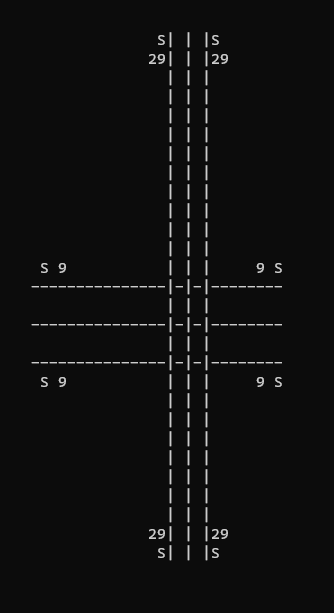
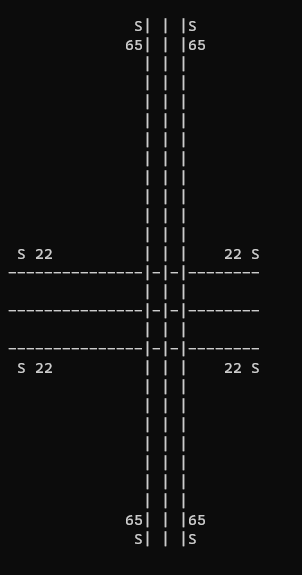
Enable passing GUI to map print to display correct speed limits

diff --git a/HW/SUI.cs b/HW/SUI.cs
@@ -24,7 +24,7 @@ namespace HW_2021_OOP
     {
         void PrintRoad(Road road, Object o);
         void PrintCar(Car car, Object o);
-        void PrintRoadItem(RoadItem roadItem, Object o);
+        void PrintRoadItem(RoadItem roadItem, Object o, GUI gui);
     }
 
     class ConsolePrint : IPrintDriver
@@ -89,7 +89,7 @@ namespace HW_2021_OOP
 
         }
 
-        public void PrintRoadItem(RoadItem roadItem, Object o)
+        public void PrintRoadItem(RoadItem roadItem, Object o, GUI gui)
         {
             CharMatrix cm = (CharMatrix)o;
             Road thisRoad = roadItem.GetCurrentRoad();
@@ -118,7 +118,7 @@ namespace HW_2021_OOP
 
             else return;
 
-            char[] chars = roadItem.GetChar();
+            char[] chars = gui.GetInterfaceUnitRoadItem(roadItem).GetChar();
             if (x - chars.Length >= 0 && x < Constants.CharMapSize && y >= 0 && y < Constants.CharMapSize)
             {
                 for (int i = 0; i < chars.Length; i++)
@@ -161,7 +161,7 @@ namespace HW_2021_OOP
 
         }
 
-        public void PrintRoadItem(RoadItem roadItem, Object o)
+        public void PrintRoadItem(RoadItem roadItem, Object o, GUI gui)
         {
 
         }

diff --git a/HW/Main.cs b/HW/Main.cs
@@ -67,12 +67,12 @@ namespace HW_2021_OOP
 
             Road Crosstown = map.GetRoads().First(r => r.GetName() == "Crosstown");
             Crosstown.AddRoadItem(gui.CreateStopSign(170));
-            Crosstown.AddRoadItem(gui.CreateSpeedLimit(22, 160));
+            Crosstown.AddRoadItem(gui.CreateSpeedLimit(22, 155));
 
             map.ToJson("finalOutput.json", gui);
 
             CharMatrix cm = new CharMatrix();
-            map.Print(cp, cm);
+            map.Print(cp, cm, gui);
             for (int i = 0; i < Constants.CharMapSize; i++)
             {
                 string s = new string(cm.map[i]);

diff --git a/HW/Road.cs b/HW/Road.cs
@@ -81,12 +81,12 @@ namespace HW_2021_OOP
             InsertNewItemAfter(currentItem, roadItem);
         }
 
-        public void Print(IPrintDriver print, Object o)
+        public void Print(IPrintDriver print, Object o, GUI gui)
         {
             print.PrintRoad(this, o);
             foreach (RoadItem item in GetRoadItems())
             {
-                print.PrintRoadItem(item, o);
+                print.PrintRoadItem(item, o, gui);
             }
         }
 

diff --git a/HW/Map.cs b/HW/Map.cs
@@ -113,11 +113,11 @@ namespace HW_2021_OOP
             roads.Add(road);
         }
 
-        public void Print(IPrintDriver pd, Object o)
+        public void Print(IPrintDriver pd, Object o, GUI gui)
         {
             foreach (Road road in roads)
             {
-                road.Print(pd, o);
+                road.Print(pd, o, gui);
             }
         }
 
